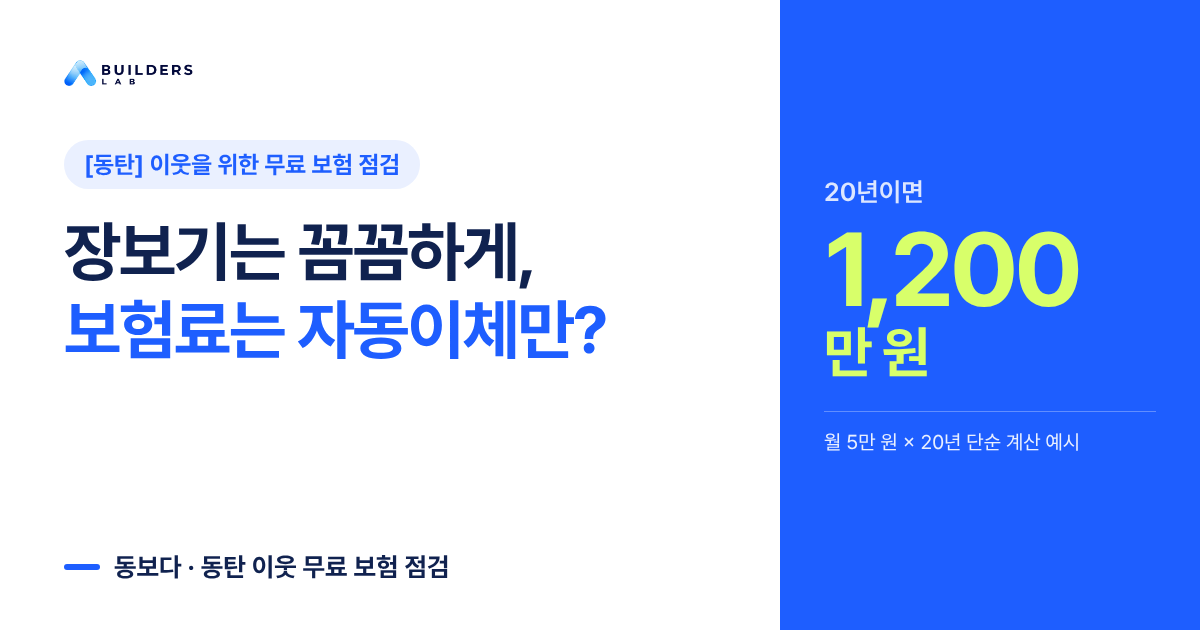
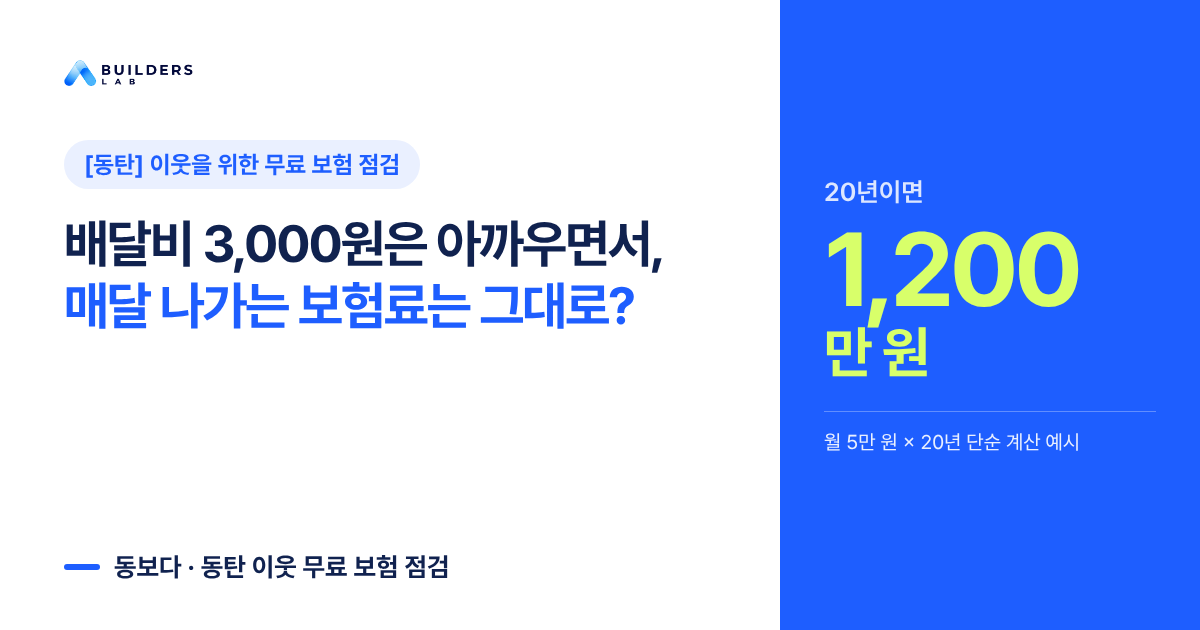
헤드라인을 ‘배달비 3,000원은 아까우면서, 매달 나가는 보험료는 그대로?’로 교체

Changed region(s): [[0.0308, 0.3317, 0.555, 0.573]]

diff --git a/index.html b/index.html
@@ -4,19 +4,19 @@
 <meta charset="utf-8">
 <meta name="viewport" content="width=device-width, initial-scale=1, viewport-fit=cover">
 <title>동보다 · 동탄 이웃 무료 보험 점검</title>
-<meta name="description" content="장보기는 꼼꼼하게, 보험료는 자동이체만? 동탄 이웃을 위한 무료 보험 점검, ‘동보다’에서 함께 확인해 보세요.">
+<meta name="description" content="배달비 3,000원은 아까우면서, 매달 나가는 보험료는 그대로? 동탄 이웃을 위한 무료 보험 점검, ‘동보다’에서 함께 확인해 보세요.">
 <meta name="theme-color" content="#1E5EFF">
 <meta property="og:type" content="website">
 <meta property="og:url" content="https://aihubos.github.io/dongboda/">
 <meta property="og:title" content="동보다 · 동탄 이웃 무료 보험 점검">
-<meta property="og:description" content="장보기는 꼼꼼하게, 보험료는 자동이체만? 매달 나가는 보험료, 동탄 이웃과 무료로 함께 점검해 보세요.">
+<meta property="og:description" content="배달비 3,000원은 아까우면서, 매달 나가는 보험료는 그대로? 매달 나가는 보험료, 동탄 이웃과 무료로 함께 점검해 보세요.">
 <meta property="og:image" content="https://aihubos.github.io/dongboda/og.png">
 <meta property="og:image:width" content="1200">
 <meta property="og:image:height" content="630">
 <meta property="og:locale" content="ko_KR">
 <meta name="twitter:card" content="summary_large_image">
 <meta name="twitter:title" content="동보다 · 동탄 이웃 무료 보험 점검">
-<meta name="twitter:description" content="장보기는 꼼꼼하게, 보험료는 자동이체만? 동탄 이웃을 위한 무료 보험 점검.">
+<meta name="twitter:description" content="배달비 3,000원은 아까우면서, 매달 나가는 보험료는 그대로? 동탄 이웃을 위한 무료 보험 점검.">
 <meta name="twitter:image" content="https://aihubos.github.io/dongboda/og.png">
 <link rel="stylesheet" href="https://cdn.jsdelivr.net/gh/orioncactus/pretendard@v1.3.9/dist/web/static/pretendard.min.css">
 <style>
@@ -50,6 +50,7 @@
     font-weight:700;font-size:15px;padding:8px 14px;border-radius:999px}
   .hero h1{margin-top:18px;font-size:40px;line-height:1.22;font-weight:800;color:var(--navy)}
   .hero h1 em{font-style:normal;color:var(--blue);display:block}
+  .nowrap{white-space:nowrap}
   .hero-illu{margin:28px 0 8px;display:flex;gap:12px}
   .hero-illu svg{display:block}
 
@@ -179,7 +180,7 @@
   <!-- HERO -->
   <section class="hero">
     <span class="pill">[동탄] 이웃을 위한 무료 보험 점검</span>
-    <h1>장보기는 꼼꼼하게,<em>보험료는 자동이체만?</em></h1>
+    <h1>배달비 <span class="nowrap">3,000원</span>은 아까우면서,<em>매달 나가는 <span class="nowrap">보험료는 그대로?</span></em></h1>
 
     <div class="hero-illu" aria-hidden="true">
       <!-- 장바구니 -->

diff --git a/design/poster-C.html b/design/poster-C.html
@@ -19,7 +19,8 @@
   .hero h1 { font-weight: 800; font-size: 120px; line-height: 1.1; letter-spacing: -0.035em; }
   .hero h1 .b { color: #1E5EFF; display: block; }
   .hero h1 .n { color: #10224F; display: block; }
-  .checkcard { position: absolute; right: 0; top: 14px; width: 176px; height: 176px; border-radius: 34px; background: #EAF0FF; box-shadow: 0 6px 0 #D3DCF2, 0 10px 24px rgba(30,94,255,.10); display: flex; align-items: center; justify-content: center; }
+  .checkcard { position: absolute; right: 0; top: 140px; width: 176px; height: 176px; border-radius: 34px; background: #EAF0FF; box-shadow: 0 6px 0 #D3DCF2, 0 10px 24px rgba(30,94,255,.10); display: flex; align-items: center; justify-content: center; }
+  .nowrap { white-space: nowrap; }
 
   .bar { width: 96px; height: 12px; border-radius: 6px; background: #1E5EFF; margin: 30px 0 24px; }
   .empathy { font-size: 34px; line-height: 1.55; color: #4A5672; letter-spacing: -0.02em; }
@@ -91,10 +92,10 @@
 
     <div class="hero">
       <h1>
-        <span class="b">장보기는</span>
-        <span class="b">꼼꼼하게,</span>
-        <span class="n">보험료는</span>
-        <span class="n">자동이체만?</span>
+        <span class="b">배달비 <span class="nowrap">3,000원</span>은</span>
+        <span class="b">아까우면서,</span>
+        <span class="n">매달 나가는</span>
+        <span class="n">보험료는 그대로?</span>
       </h1>
       <div class="checkcard">
         <svg width="104" height="104" viewBox="0 0 24 24" fill="none"><path d="M4 12.5l5 5L20 6.5" stroke="#1E5EFF" stroke-width="2.6" stroke-linecap="round" stroke-linejoin="round"/></svg>

diff --git a/design/poster-B.html b/design/poster-B.html
@@ -20,7 +20,8 @@
   .hero { position: relative; margin-top: 24px; }
   .pill { display: inline-flex; align-items: center; gap: 10px; background: #EAF0FF; color: #1E5EFF; font-weight: 700; font-size: 30px; padding: 14px 30px; border-radius: 999px; box-shadow: 0 2px 6px rgba(16,34,79,.12); }
   .pill b { color: #10224F; }
-  .headline { margin-top: 18px; font-weight: 800; font-size: 90px; line-height: 1.14; letter-spacing: -0.03em; }
+  .headline { margin-top: 18px; font-weight: 800; font-size: 76px; line-height: 1.14; letter-spacing: -0.04em; white-space: nowrap; }
+  .nowrap { white-space: nowrap; }
   .headline .l1 { color: #1E5EFF; display: block; }
   .headline .l2 { color: #10224F; display: block; }
   .hero .check { position: absolute; right: 72px; top: 0; width: 120px; height: 120px; border-radius: 26px; background: #EAF0FF; box-shadow: 0 4px 10px rgba(16,34,79,.14); display: flex; align-items: center; justify-content: center; }
@@ -127,8 +128,8 @@
   <div class="hero pad">
     <span class="pill"><b>[동탄]</b> 이웃을 위한 무료 보험 점검</span>
     <h1 class="headline">
-      <span class="l1">장보기는 꼼꼼하게,</span>
-      <span class="l2">보험료는 자동이체만?</span>
+      <span class="l1">배달비 <span class="nowrap">3,000원</span>은 아까우면서,</span>
+      <span class="l2">매달 나가는 보험료는 그대로?</span>
     </h1>
   </div>
 

diff --git a/og.html b/og.html
@@ -12,8 +12,9 @@
   .logo{height:40px;width:auto;align-self:flex-start}
   .pill{margin-top:44px;align-self:flex-start;background:#EAF0FF;color:#1E5EFF;
     font-weight:700;font-size:24px;padding:10px 20px;border-radius:999px}
-  h1{margin-top:24px;font-size:66px;line-height:1.18;font-weight:800;letter-spacing:-0.03em;color:#10224F}
+  h1{margin-top:24px;font-size:52px;line-height:1.2;font-weight:800;letter-spacing:-0.04em;color:#10224F}
   h1 em{font-style:normal;color:#1E5EFF;display:block}
+  .nowrap{white-space:nowrap}
   .foot{margin-top:auto;display:flex;align-items:center;gap:14px;font-size:26px;font-weight:700;color:#10224F}
   .foot:before{content:"";width:36px;height:6px;border-radius:3px;background:#1E5EFF}
   .right{width:420px;background:#1E5EFF;color:#fff;padding:56px 44px;display:flex;flex-direction:column;justify-content:center}
@@ -28,7 +29,7 @@
   <div class="left">
     <img class="logo" src="logo.png" alt="AI BUILDERS LAB">
     <span class="pill">[동탄] 이웃을 위한 무료 보험 점검</span>
-    <h1>장보기는 꼼꼼하게,<em>보험료는 자동이체만?</em></h1>
+    <h1>배달비 <span class="nowrap">3,000원</span>은 아까우면서,<em>매달 나가는 보험료는 그대로?</em></h1>
     <div class="foot">동보다 · 동탄 이웃 무료 보험 점검</div>
   </div>
   <div class="right">

diff --git a/design/poster-A.html b/design/poster-A.html
@@ -31,9 +31,10 @@
   }
   .badge b { font-weight: 800; }
   .headline {
-    margin-top: 30px; font-size: 90px; font-weight: 800; line-height: 1.18;
-    letter-spacing: -0.03em;
+    margin-top: 30px; font-size: 76px; font-weight: 800; line-height: 1.18;
+    letter-spacing: -0.04em; white-space: nowrap;
   }
+  .nowrap { white-space: nowrap; }
   .bar { width: 64px; height: 8px; border-radius: 4px; background: #1E5EFF; }
 
   /* empathy */
@@ -151,7 +152,7 @@
   <!-- hero -->
   <div class="wrap">
     <div class="badge"><b>[동탄]</b> 이웃을 위한 무료 보험 점검</div>
-    <h1 class="headline">장보기는 꼼꼼하게,<br><span class="blue">보험료는 자동이체만?</span></h1>
+    <h1 class="headline">배달비 <span class="nowrap">3,000원</span>은 아까우면서,<br><span class="blue">매달 나가는 보험료는 그대로?</span></h1>
 
     <div class="empathy">
       <p>배달비 <strong>2천 원</strong>이 아까워 직접 포장하고, <strong>1만 3천 원</strong>짜리 초밥이 먹고 싶어도 <strong>3천 원</strong> 아끼려고 <strong>1만 원</strong>짜리 백반을 고르는 우리.</p>

diff --git a/banner/index.html b/banner/index.html
@@ -69,7 +69,7 @@
       <article class="card">
         <a class="thumb" href="dongboda-poster-B.png" target="_blank" rel="noopener"><img src="dongboda-poster-B.png" alt="시안 B 영수증형" loading="lazy"></a>
         <h2><span>시안 B</span> · 영수증형</h2>
-        <p>장보기 영수증으로 생활 속 공감을 강조합니다.</p>
+        <p>생활 속 영수증으로 공감을 강조합니다.</p>
         <a class="btn btn-primary" href="dongboda-poster-B.png" download>PNG 다운로드</a>
       </article>
       <article class="card">

diff --git a/design/brief.md b/design/brief.md
@@ -6,7 +6,7 @@
 
 카피(사실·수치 절대 변경 금지, 문장 다듬기 최소화. 일부 문장은 레이아웃상 요약 헤드라인으로 써도 되지만 아래 핵심은 모두 들어가야 함):
 - 배지: [동탄] 이웃을 위한 무료 보험 점검
-- 헤드라인: 장보기는 꼼꼼하게, 보험료는 자동이체만?
+- 헤드라인: 배달비 3,000원은 아까우면서, / 매달 나가는 보험료는 그대로?
 - 공감: 배달비 2천 원이 아까워 직접 포장하고, 1만 3천 원짜리 초밥이 먹고 싶어도 3천 원 아끼려고 1만 원짜리 백반을 고르는 우리.
 - 질문: 그런데 매달 빠져나가는 보험료는 마지막으로 언제 확인해 보셨나요?
 - 숫자: 만약 내 보험에서 매달 5만 원을 줄일 수 있다면, 1년이면 60만 원, 같은 차이가 20년간 이어지면 1,200만 원입니다.  (월 5만 원 → 1년 60만 원 → 20년 1,200만 원)
